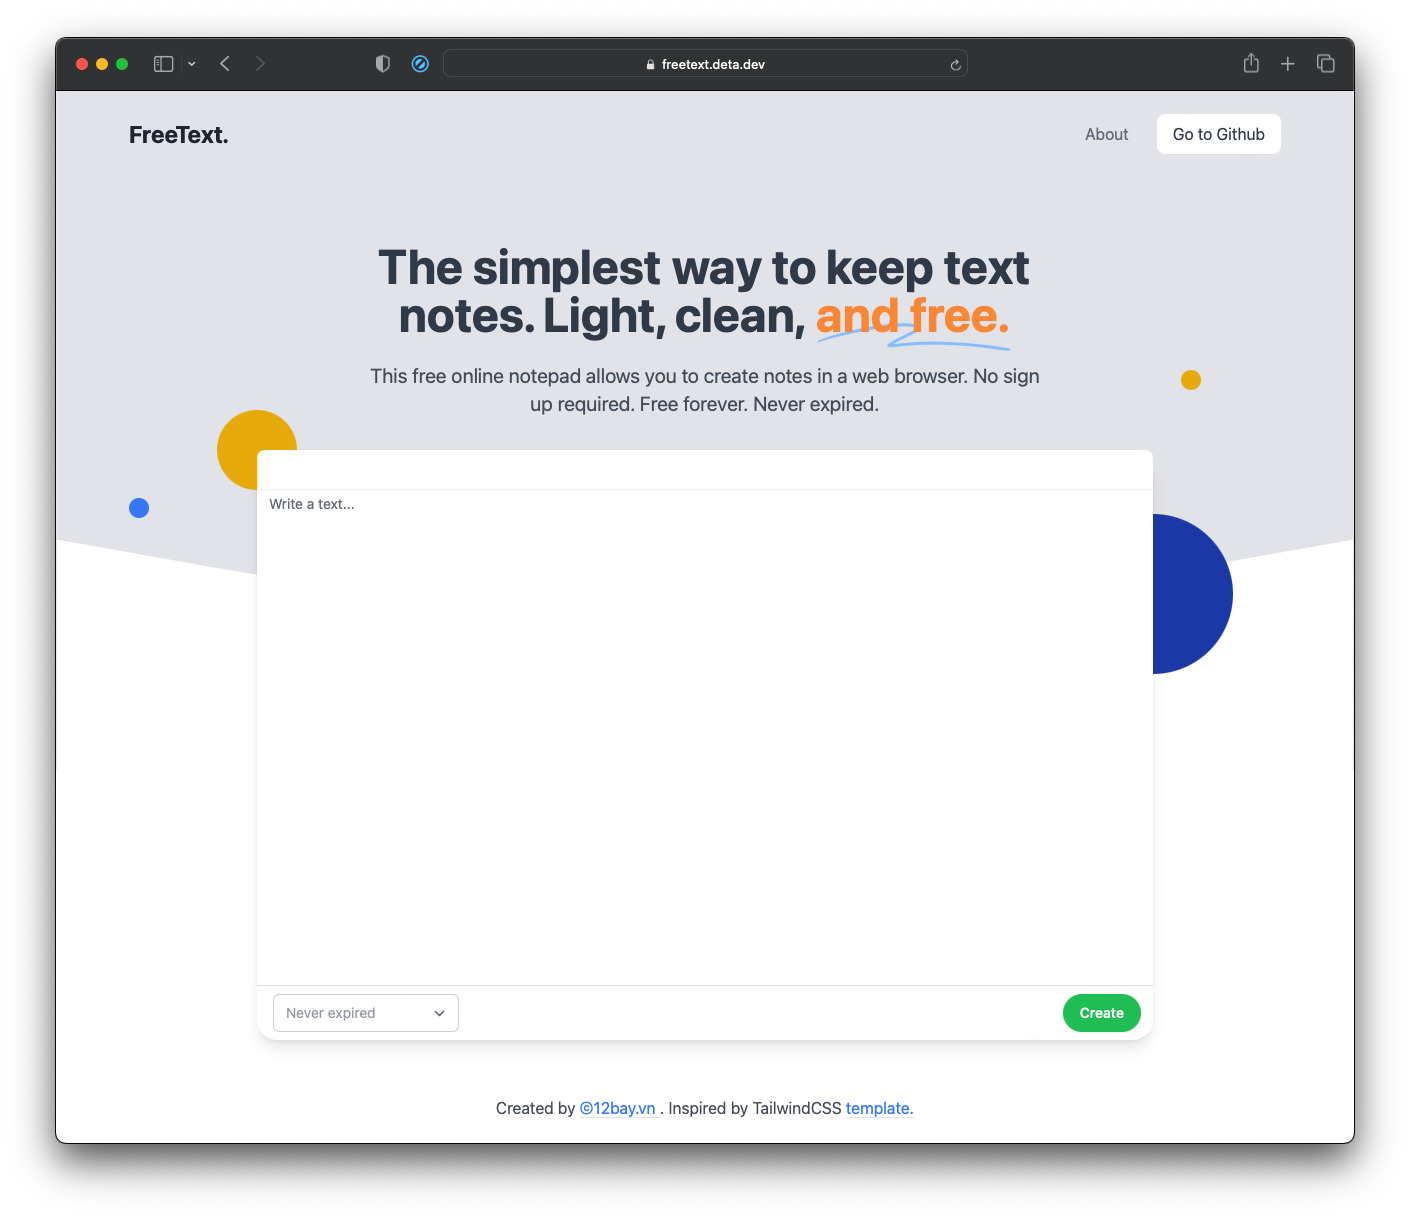
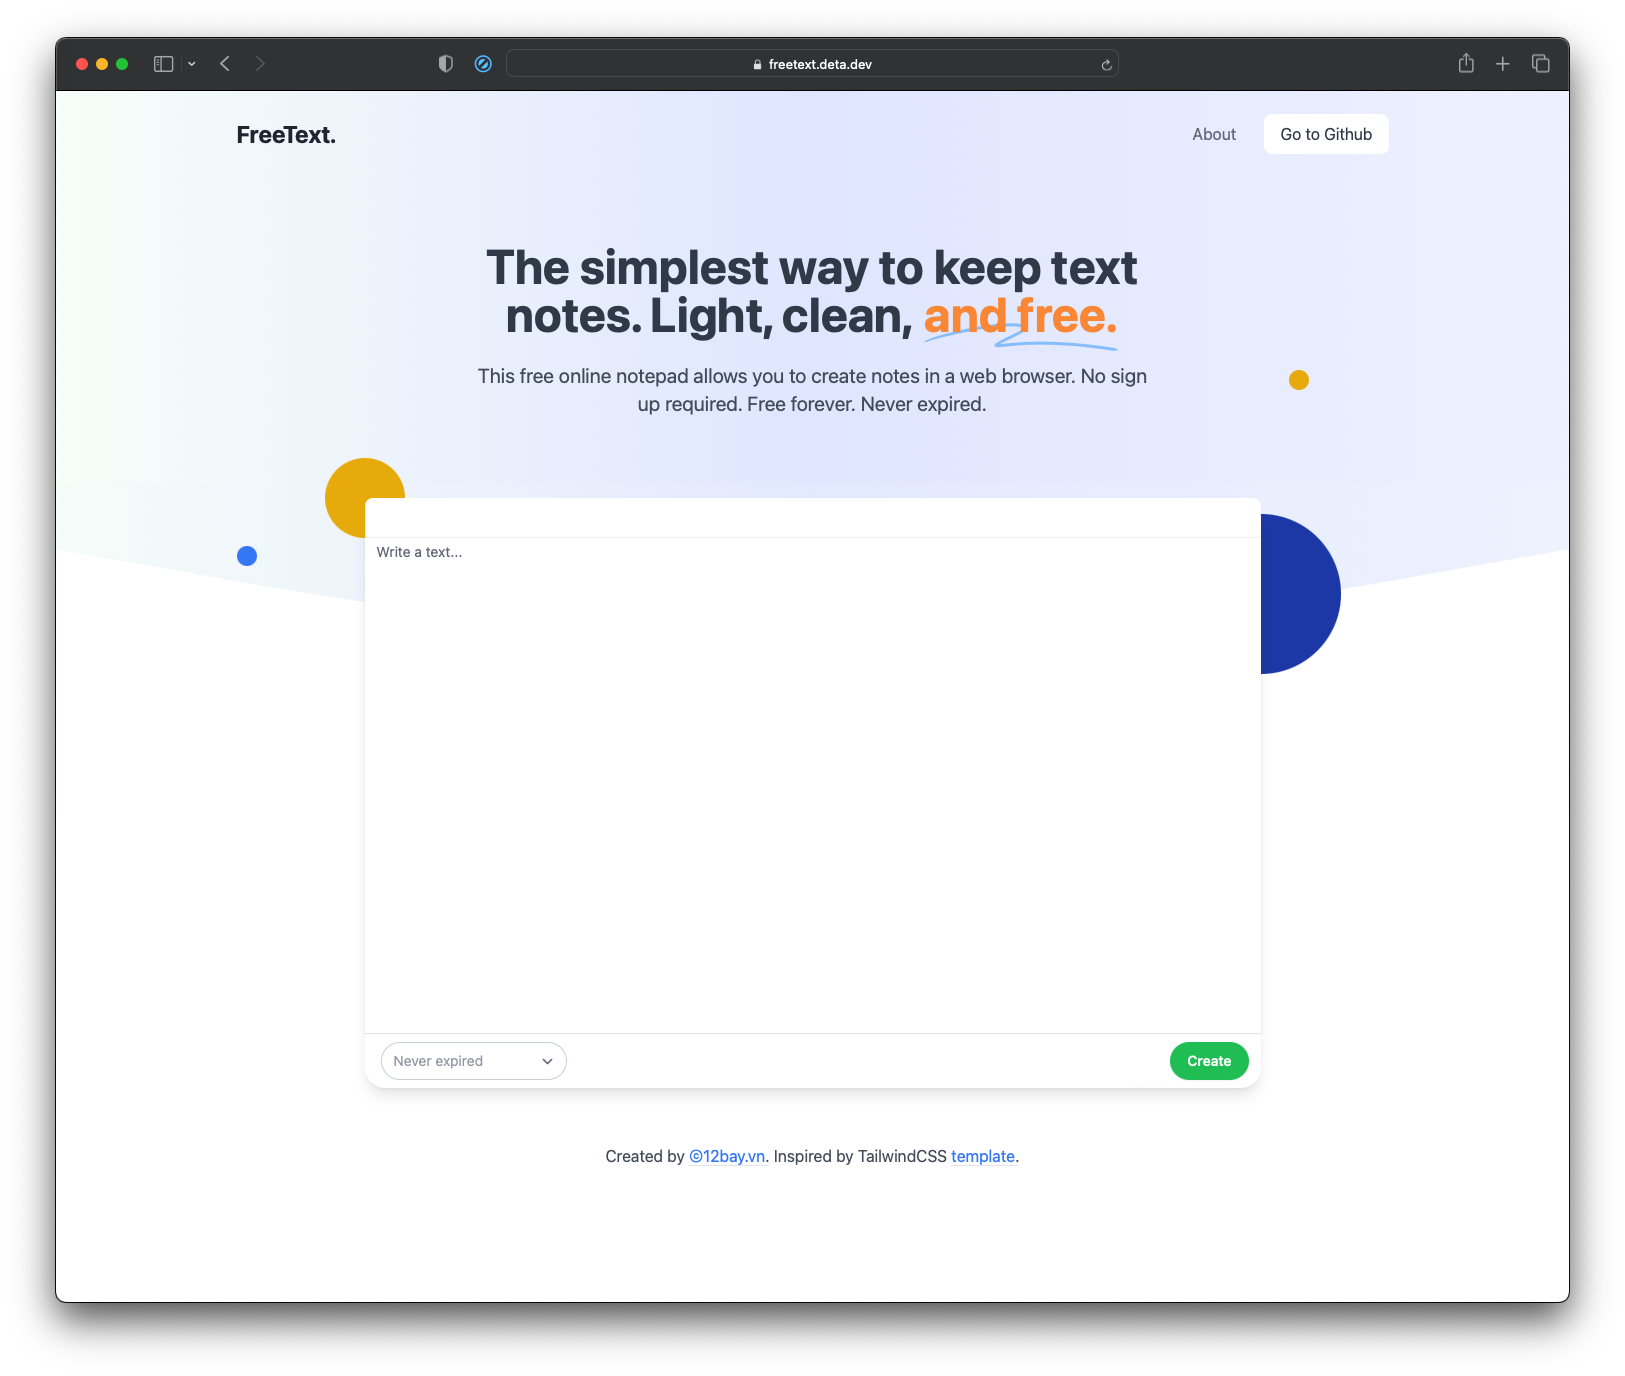
Add screenshot

diff --git a/ui.html b/ui.html
@@ -97,7 +97,7 @@
             </div>
           </div>
           <svg
-            class="fill-current bg-slate-100/20 text-white hidden md:block"
+            class="fill-current text-white hidden md:block"
             xmlns="http://www.w3.org/2000/svg"
             viewBox="0 0 1440 320"
           >
@@ -109,7 +109,7 @@
         </div>
 
         <div
-          class="max-w-4xl lg:mx-auto bg-white shadow-lg relative z-20 hidden md:block rounded-[20px] -mt-[320px] sm:-mt-[200px] xl:-mt-[320px] 2xl:-mt-[475px] mx-4"
+          class="max-w-4xl lg:mx-auto bg-white shadow-lg relative z-20 hidden md:block rounded-[20px] -mt-[320px] sm:-mt-[200px] xl:-mt-[320px] 2xl:-mt-[400px] mx-4"
         >
           <div
             class="h-20 w-20 rounded-full bg-yellow-500 absolute top-0 left-0 -ml-10 -mt-10 z-[-1]"
